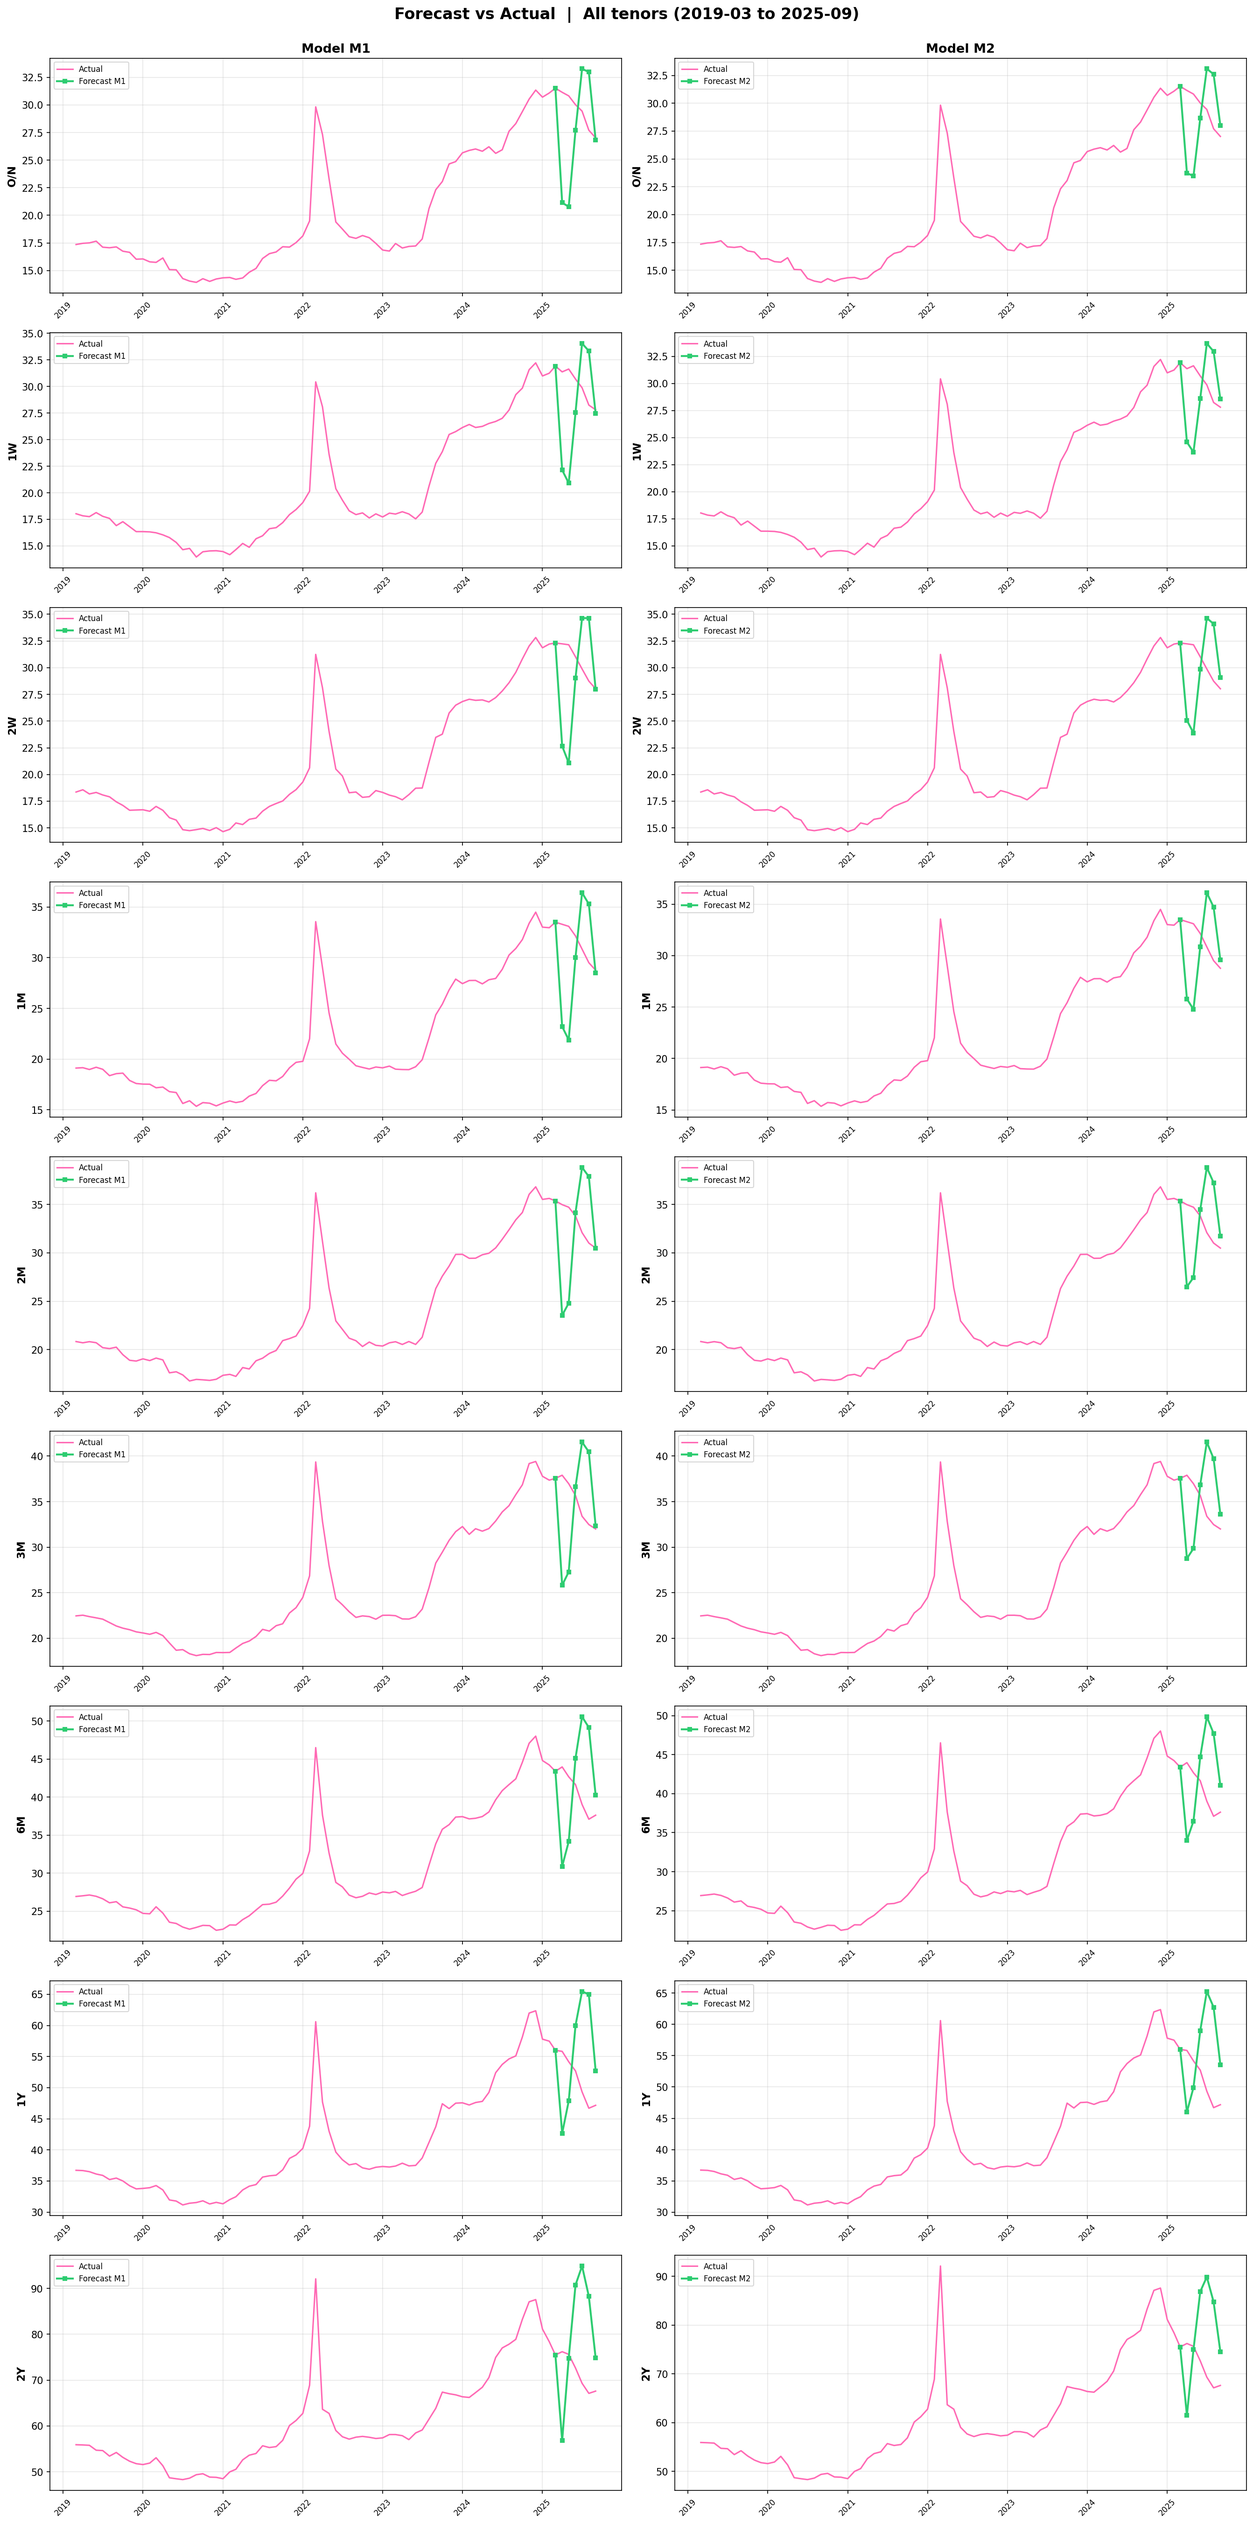
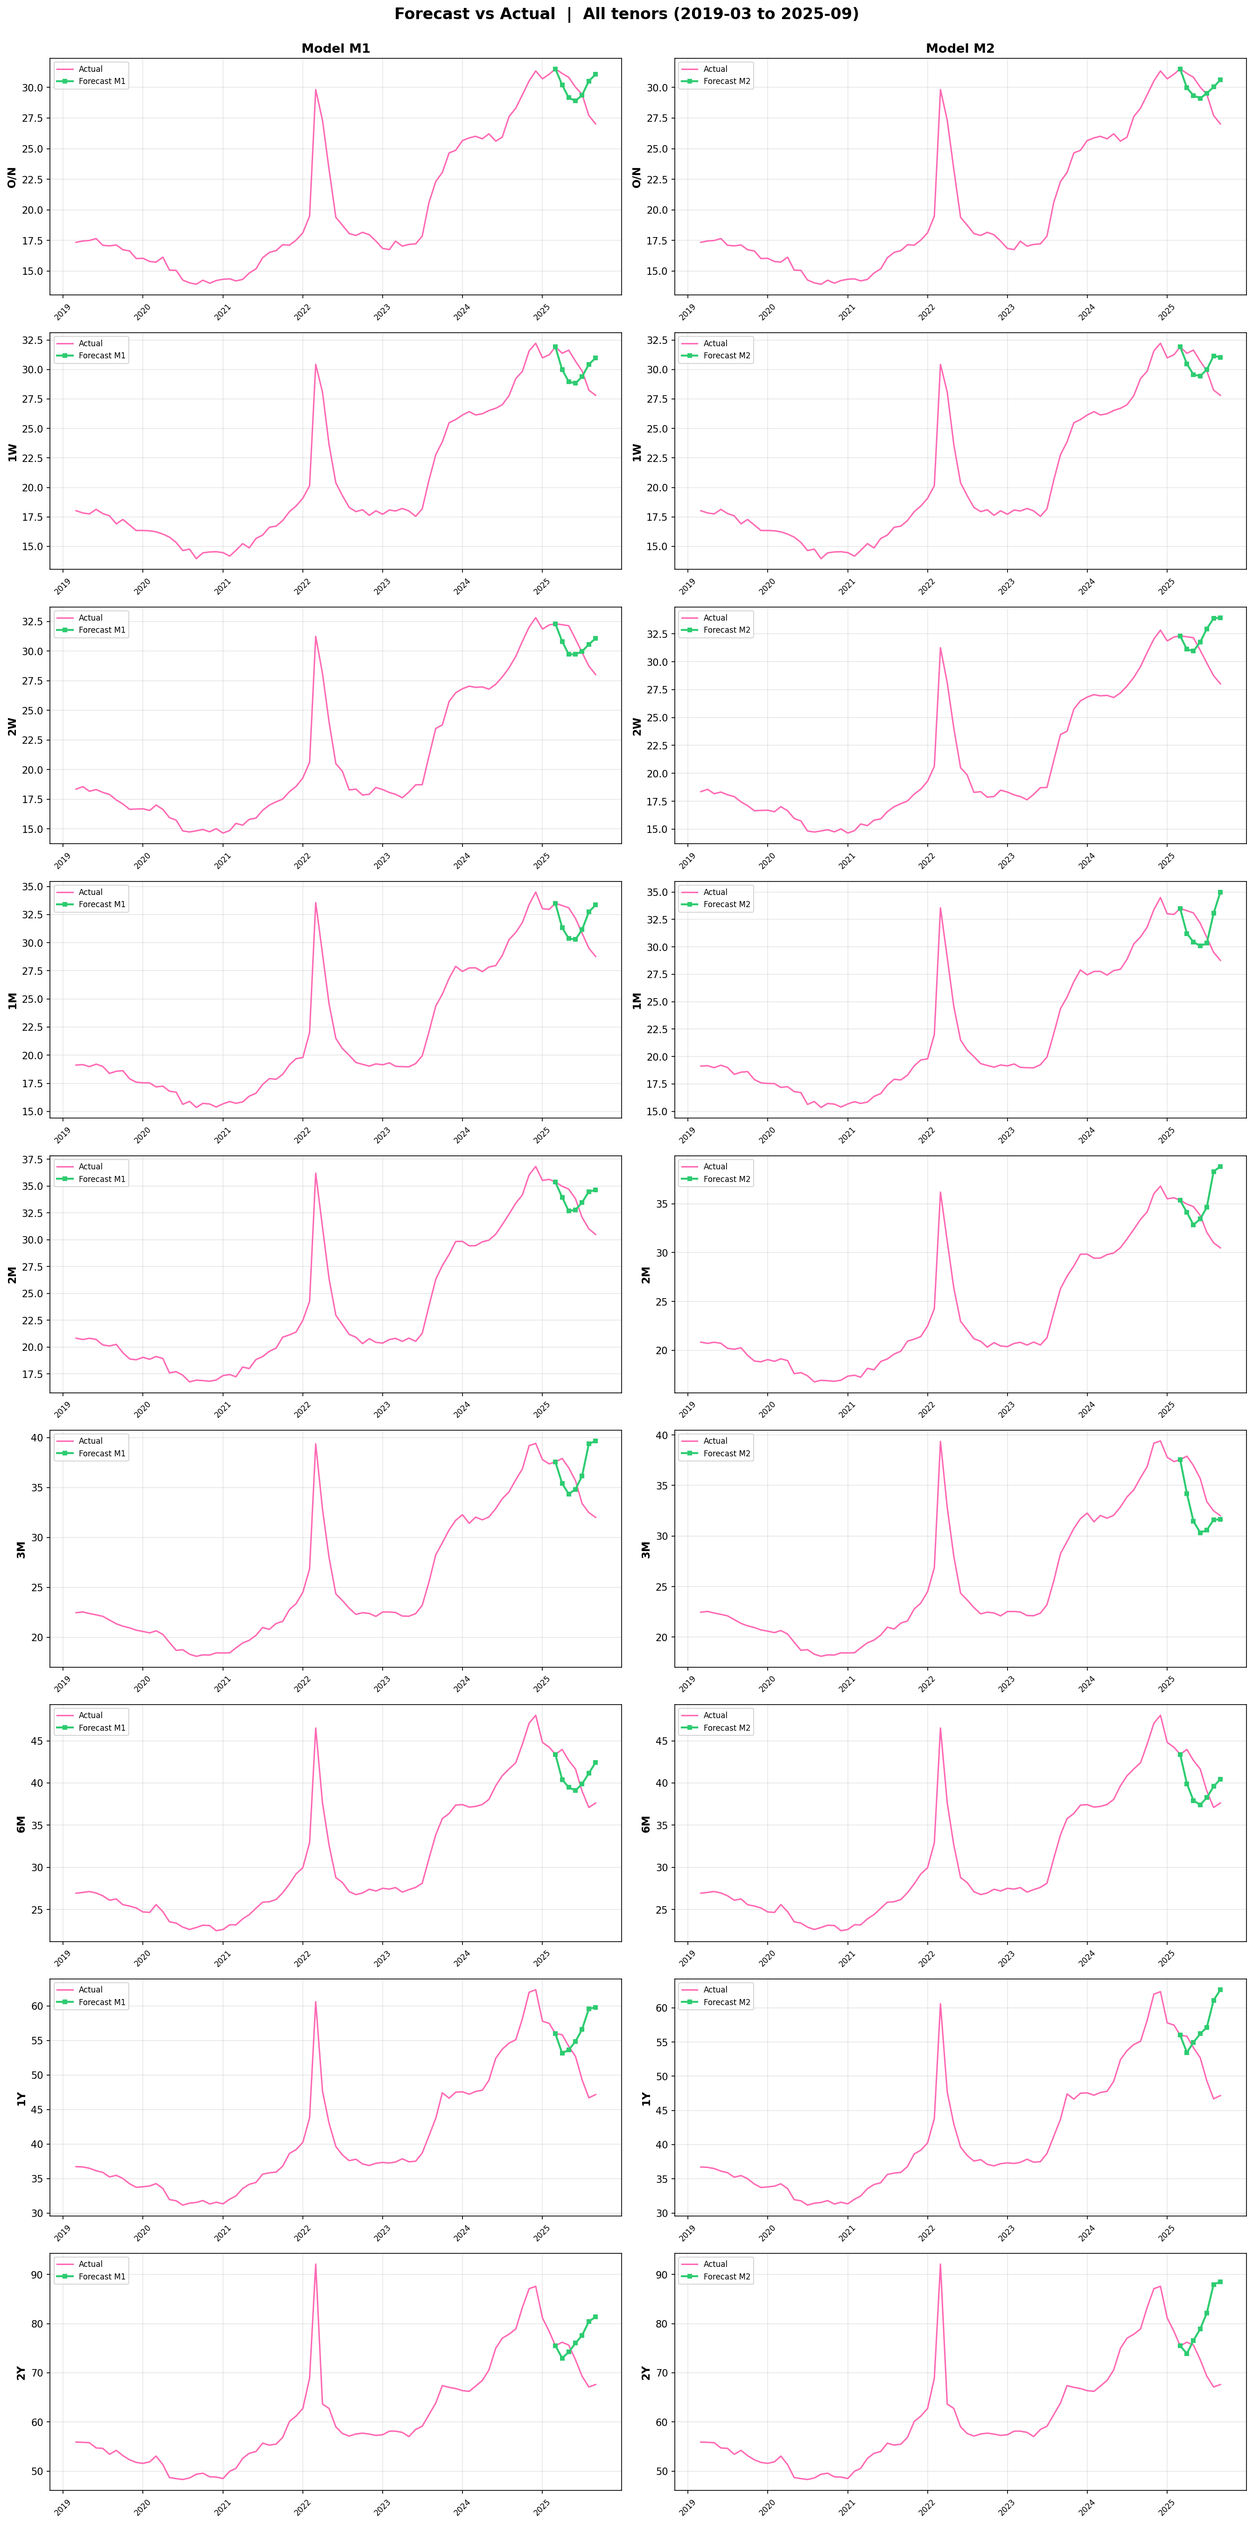
Решение 2

diff --git a/Task1/drafts/pipeline_ridge_var.py b/Task1/drafts/pipeline_ridge_var.py
@@ -220,7 +220,7 @@ def lasso_select(X, y, model_name):
 
 
 # ==============================================================================
-# 4. RIDGE С CV-ПОДБОРОМ ALPHA
+# 4. DIRECT FORECAST RIDGE (6 горизонтов x 9 теноров)
 # ==============================================================================
 
 def find_best_ridge_alpha(X, y, alphas=np.logspace(-3, 3, 50)):
@@ -243,40 +243,54 @@ def find_best_ridge_alpha(X, y, alphas=np.logspace(-3, 3, 50)):
     return best_alpha
 
 
-def train_ridge_models(X, y, selected_features, model_name):
+def train_direct_ridge_models(X, y, selected_features, model_name, n_horizons=6):
     """
-    Обучение Ridge-моделей для каждого тенора с отобранными фичами.
-    Возвращает: (models_dict, scaler, feature_names_dict).
+    Direct forecast: обучаем отдельную Ridge-модель для каждого горизонта h=1..6.
+    Для горизонта h: target = y.shift(-h), т.е. значение через h месяцев.
+    Возвращает: {horizon: {tenor: (model, feat_idx)}}, scaler
     """
     scaler = StandardScaler()
     X_scaled = scaler.fit_transform(X)
     col_names = X.columns.tolist()
 
-    models = {}
-    alphas_used = {}
+    all_models = {}  # {h: {tenor: (model, feat_idx)}}
 
-    for tenor in YIELD_TENORS:
-        feat_list = selected_features[tenor]
-        feat_idx = [col_names.index(f) for f in feat_list if f in col_names]
+    for h in range(1, n_horizons + 1):
+        models_h = {}
+        for tenor in YIELD_TENORS:
+            # Target: значение через h месяцев
+            target_shifted = y[tenor].shift(-h)
 
-        if len(feat_idx) == 0:
-            # Fallback: использовать все фичи
-            feat_idx = list(range(X_scaled.shape[1]))
+            # Убираем NaN (последние h строк)
+            valid_mask = target_shifted.notna()
+            X_h = X_scaled[valid_mask.values]
+            y_h = target_shifted[valid_mask].values
 
-        X_sub = X_scaled[:, feat_idx]
-        target = y[tenor].values
+            if len(y_h) < 10:
+                # Fallback на horizon=1 если слишком мало данных
+                target_shifted = y[tenor].shift(-1)
+                valid_mask = target_shifted.notna()
+                X_h = X_scaled[valid_mask.values]
+                y_h = target_shifted[valid_mask].values
 
-        best_alpha = find_best_ridge_alpha(X_sub, target)
-        model = Ridge(alpha=best_alpha)
-        model.fit(X_sub, target)
+            feat_list = selected_features[tenor]
+            feat_idx = [col_names.index(f) for f in feat_list if f in col_names]
+            if len(feat_idx) == 0:
+                feat_idx = list(range(X_scaled.shape[1]))
 
-        models[tenor] = (model, feat_idx)
-        alphas_used[tenor] = best_alpha
+            X_sub = X_h[:, feat_idx]
+            best_alpha = find_best_ridge_alpha(X_sub, y_h)
+            model = Ridge(alpha=best_alpha)
+            model.fit(X_sub, y_h)
 
-    print(f"  {model_name} Ridge alpha: " +
-          ", ".join(f"{t}={alphas_used[t]:.3f}" for t in YIELD_TENORS))
+            models_h[tenor] = (model, feat_idx)
 
-    return models, scaler
+        all_models[h] = models_h
+
+    print(f"  {model_name}: {n_horizons} горизонтов x {len(YIELD_TENORS)} теноров = "
+          f"{n_horizons * len(YIELD_TENORS)} моделей")
+
+    return all_models, scaler
 
 
 # ==============================================================================
@@ -296,64 +310,43 @@ def train_var(yield_train):
 
 
 # ==============================================================================
-# 6. РЕКУРСИВНЫЙ ПРОГНОЗ
+# 6. DIRECT FORECAST (ПРЯМОЙ ПРОГНОЗ)
 # ==============================================================================
 
-def recursive_ridge_predict(models, scaler, yield_df, iv_df, selected_features,
-                            n_steps, use_iv=False):
+def direct_ridge_predict(all_models, scaler, yield_df, iv_df, n_steps, use_iv=False):
     """
-    Рекурсивный прогноз Ridge на n_steps месяцев.
-    models: {tenor: (Ridge, feat_idx)}
+    Direct forecast: каждая модель прогнозирует свой горизонт напрямую.
+    all_models: {h: {tenor: (model, feat_idx)}} — по модели на каждый горизонт.
+    Ошибки не накапливаются.
     """
-    df = yield_df.copy()
-    col_names = None  # будет определено при первом шаге
-    predictions = []
+    # Строим фичи из текущих (последних известных) данных — один раз
+    yield_feats = make_yield_features(yield_df)
+    if use_iv and iv_df is not None:
+        iv_feats = make_iv_features(iv_df)
+        X_all = pd.concat([yield_feats, iv_feats], axis=1)
+    else:
+        X_all = yield_feats
 
-    last_date = df.index[-1]
+    # Берём последнюю строку фичей
+    X_last = X_all.iloc[[-1]].ffill(axis=1).fillna(0)
+    X_last_scaled = scaler.transform(X_last)
+
+    last_date = yield_df.index[-1]
     pred_dates = pd.date_range(
         start=last_date + pd.DateOffset(months=1),
         periods=n_steps,
         freq='MS'
     )
 
-    # Для определения списка столбцов — строим фичи один раз
-    if use_iv and iv_df is not None:
-        X_check = pd.concat([make_yield_features(df), make_iv_features(iv_df)], axis=1)
-    else:
-        X_check = make_yield_features(df)
-    col_names = X_check.columns.tolist()
-
-    for step in range(n_steps):
-        # Пересчитываем фичи
-        yield_feats = make_yield_features(df)
-        if use_iv and iv_df is not None:
-            iv_feats = make_iv_features(iv_df)
-            # Выровняем индексы — iv может быть короче
-            X_new = pd.concat([yield_feats, iv_feats], axis=1)
-        else:
-            X_new = yield_feats
-
-        # Дополним недостающие столбцы нулями
-        for c in col_names:
-            if c not in X_new.columns:
-                X_new[c] = 0.0
-        X_new = X_new[col_names]
-
-        # Берём последнюю строку
-        X_last = X_new.iloc[[-1]].ffill(axis=1).fillna(0)
-        X_last_scaled = scaler.transform(X_last)
-
+    predictions = []
+    for h in range(1, n_steps + 1):
+        models_h = all_models[h]
         pred_row = {}
         for tenor in YIELD_TENORS:
-            model, feat_idx = models[tenor]
+            model, feat_idx = models_h[tenor]
             X_sub = X_last_scaled[:, feat_idx]
             pred_row[tenor] = model.predict(X_sub)[0]
-
         predictions.append(pred_row)
-
-        # Добавляем прогноз в df для следующего шага рекурсии
-        new_row = pd.DataFrame(pred_row, index=[pred_dates[step]])
-        df = pd.concat([df, new_row])
 
     return pd.DataFrame(predictions, index=pred_dates, columns=YIELD_TENORS)
 
@@ -376,46 +369,17 @@ def var_predict(var_fitted, yield_train, best_lag, n_steps):
 # 7. ПОДБОР ВЕСОВ АНСАМБЛЯ
 # ==============================================================================
 
-def find_ensemble_weight(ridge_models, scaler, var_fitted, best_lag,
-                         yield_df, iv_df, selected_features, use_iv=False):
+def find_ensemble_weight(ridge_pred_vals, var_pred_vals, actual_vals):
     """
-    Подбор веса w (Ridge vs VAR) на внутренней валидации.
-    Разбиваем train на sub_train/sub_val, прогнозируем, ищем лучший w.
+    Подбор веса w (Ridge vs VAR) по уже готовым прогнозам на валидации.
     """
-    n = len(yield_df)
-    split_point = max(n - 12, int(n * 0.75))
-
-    sub_train = yield_df.iloc[:split_point]
-    sub_val = yield_df.iloc[split_point:]
-    n_val = len(sub_val)
-
-    if n_val < 2:
-        return 0.5  # fallback
-
-    # Ridge прогноз на sub_val
-    iv_sub = iv_df.iloc[:split_point] if iv_df is not None and use_iv else None
-    ridge_pred = recursive_ridge_predict(
-        ridge_models, scaler, sub_train, iv_sub, selected_features,
-        n_steps=n_val, use_iv=use_iv
-    )
-
-    # VAR прогноз на sub_val
-    var_pred_sub = var_predict(
-        var_fitted, sub_train, best_lag, n_steps=n_val
-    )
-
-    actual = sub_val[YIELD_TENORS].values
-    ridge_vals = ridge_pred.values
-    var_vals = var_pred_sub.values
-
     best_w, best_rmse = 0.5, np.inf
     for w in np.arange(0.0, 1.05, 0.05):
-        combined = w * ridge_vals + (1 - w) * var_vals
-        rmse = weighted_rmse(actual, combined)
+        combined = w * ridge_pred_vals + (1 - w) * var_pred_vals
+        rmse = weighted_rmse(actual_vals, combined)
         if rmse < best_rmse:
             best_rmse = rmse
             best_w = w
-
     return best_w
 
 
@@ -535,40 +499,42 @@ def main():
     selected_m1 = lasso_select(X_m1_clean, y_m1, "M1")
     selected_m2 = lasso_select(X_m2_clean, y_m2, "M2")
 
-    # ── 4. ОБУЧЕНИЕ RIDGE ────────────────────────────────────────────────────
-    print("\n[4/8] Обучение Ridge...")
-    ridge_models_m1, scaler_m1 = train_ridge_models(X_m1_clean, y_m1, selected_m1, "M1")
-    ridge_models_m2, scaler_m2 = train_ridge_models(X_m2_clean, y_m2, selected_m2, "M2")
+    # ── 4. ОБУЧЕНИЕ DIRECT RIDGE (6 горизонтов) ────────────────────────────
+    print("\n[4/8] Обучение Direct Ridge (6 горизонтов)...")
+    direct_m1, scaler_m1 = train_direct_ridge_models(
+        X_m1_clean, y_m1, selected_m1, "M1", n_horizons=N_VAL_MONTHS)
+    direct_m2, scaler_m2 = train_direct_ridge_models(
+        X_m2_clean, y_m2, selected_m2, "M2", n_horizons=N_VAL_MONTHS)
 
     # ── 5. ОБУЧЕНИЕ VAR ─────────────────────────────────────────────────────
     print("\n[5/8] Обучение VAR...")
     var_fitted, best_lag = train_var(yield_train)
 
-    # ── 6. ПОДБОР ВЕСОВ АНСАМБЛЯ ─────────────────────────────────────────────
-    print("\n[6/8] Подбор весов ансамбля...")
-    w_m1 = find_ensemble_weight(
-        ridge_models_m1, scaler_m1, var_fitted, best_lag,
-        yield_train, None, selected_m1, use_iv=False
-    )
-    w_m2 = find_ensemble_weight(
-        ridge_models_m2, scaler_m2, var_fitted, best_lag,
-        yield_train, iv_train, selected_m2, use_iv=True
-    )
-    print(f"  M1: w_ridge={w_m1:.2f}, w_var={1-w_m1:.2f}")
-    print(f"  M2: w_ridge={w_m2:.2f}, w_var={1-w_m2:.2f}")
+    # ── 6. ВАЛИДАЦИОННЫЙ ПРОГНОЗ (2025-04 ... 2025-09) ────────────────────────
+    print("\n[6/8] Валидационный прогноз (direct forecast)...")
 
-    # ── 7. ВАЛИДАЦИОННЫЙ ПРОГНОЗ (2025-04 ... 2025-09) ──────────────────────
-    print("\n[7/8] Валидационный прогноз (2025-04 — 2025-09)...")
-
-    ridge_val_m1 = recursive_ridge_predict(
-        ridge_models_m1, scaler_m1, yield_train, None,
-        selected_m1, n_steps=N_VAL_MONTHS, use_iv=False
+    ridge_val_m1 = direct_ridge_predict(
+        direct_m1, scaler_m1, yield_train, None,
+        n_steps=N_VAL_MONTHS, use_iv=False
     )
-    ridge_val_m2 = recursive_ridge_predict(
-        ridge_models_m2, scaler_m2, yield_train, iv_train,
-        selected_m2, n_steps=N_VAL_MONTHS, use_iv=True
+    ridge_val_m2 = direct_ridge_predict(
+        direct_m2, scaler_m2, yield_train, iv_train,
+        n_steps=N_VAL_MONTHS, use_iv=True
     )
     var_val = var_predict(var_fitted, yield_train, best_lag, n_steps=N_VAL_MONTHS)
+
+    # ── 7. ПОДБОР ВЕСОВ АНСАМБЛЯ ─────────────────────────────────────────────
+    actual_val = yield_val[YIELD_TENORS].copy()
+    # Выровняем индексы
+    ridge_val_m1.index = actual_val.index
+    ridge_val_m2.index = actual_val.index
+    var_val.index = actual_val.index
+
+    print("\n[7/8] Подбор весов ансамбля...")
+    w_m1 = find_ensemble_weight(ridge_val_m1.values, var_val.values, actual_val.values)
+    w_m2 = find_ensemble_weight(ridge_val_m2.values, var_val.values, actual_val.values)
+    print(f"  M1: w_ridge={w_m1:.2f}, w_var={1-w_m1:.2f}")
+    print(f"  M2: w_ridge={w_m2:.2f}, w_var={1-w_m2:.2f}")
 
     pred_val_m1 = w_m1 * ridge_val_m1 + (1 - w_m1) * var_val
     pred_val_m2 = w_m2 * ridge_val_m2 + (1 - w_m2) * var_val
@@ -581,11 +547,6 @@ def main():
     pred_val_m2 = pred_val_m2.clip(lower=train_min - margin, upper=train_max + margin, axis=1)
 
     # Дельта-поверхности
-    # Выровняем индексы
-    actual_val = yield_val[YIELD_TENORS].copy()
-    pred_val_m1.index = actual_val.index
-    pred_val_m2.index = actual_val.index
-
     delta_m1 = pred_val_m1 - actual_val
     delta_m2 = pred_val_m2 - actual_val
 
